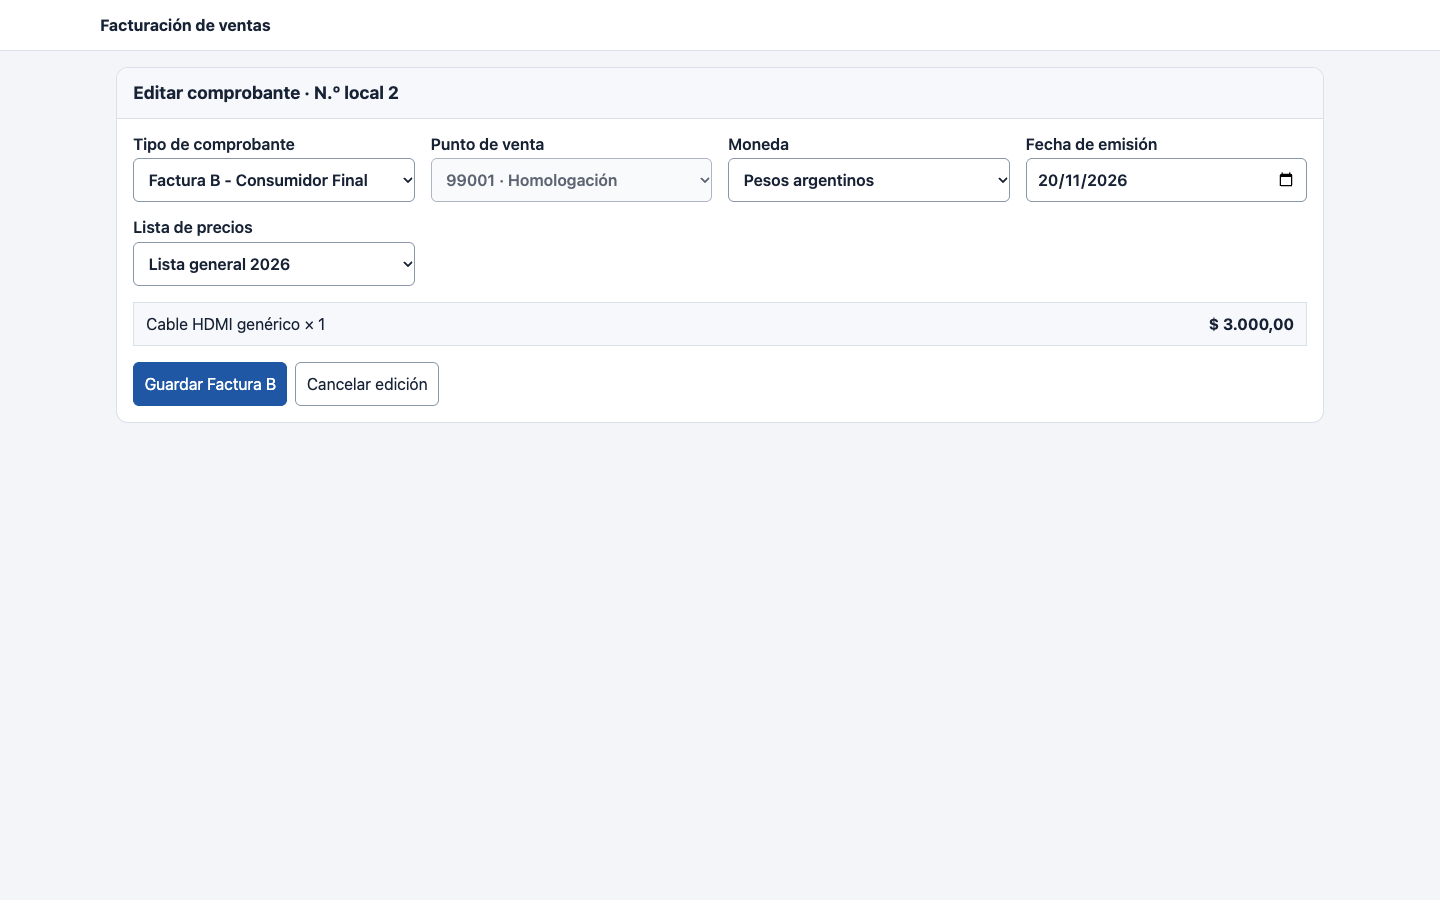
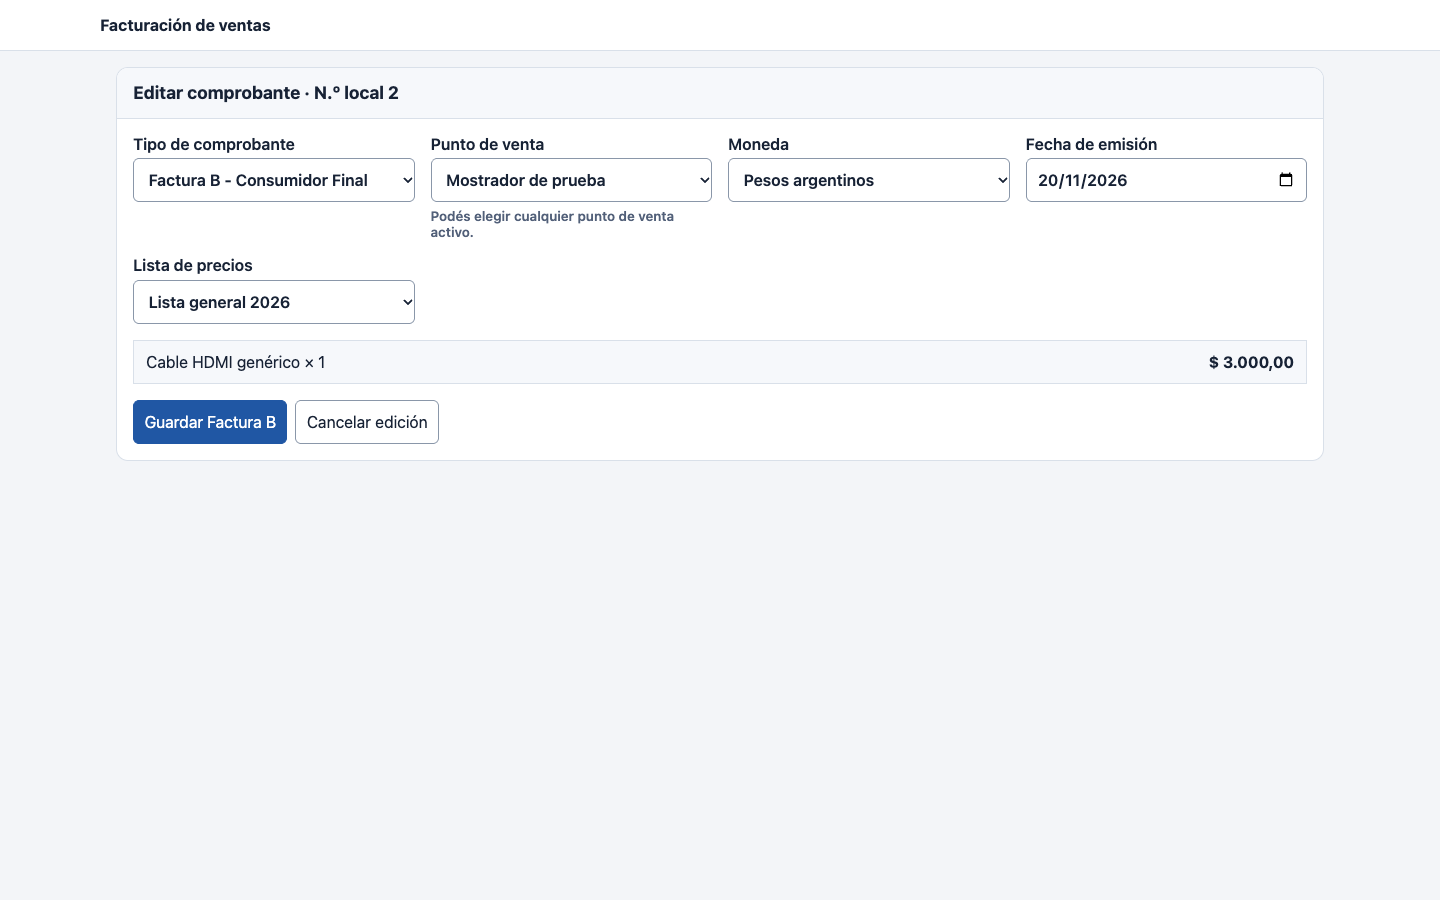
Permitir cambiar el punto de venta al convertir comprobantes

Changed region(s): [[0.0938, 0.2489, 0.3125, 0.4978], [0.2812, 0.1867, 0.4688, 0.28], [0.8125, 0.3422, 0.9062, 0.4356]]

diff --git a/frontend/src/app.ts b/frontend/src/app.ts
@@ -103,7 +103,7 @@ const catalogosEstado = elemento<HTMLParagraphElement>('catalogos-estado');
 const btnReintentarCatalogos = elemento<HTMLButtonElement>('btn-reintentar-catalogos');
 const altaTipo = elemento<HTMLSelectElement>('alta-tipo');
 const altaLista = elemento<HTMLSelectElement>('alta-lista-precio');
-const ayudaPuntoFiscal = elemento<HTMLElement>('alta-ayuda-punto-fiscal');
+const ayudaPuntoVenta = elemento<HTMLElement>('alta-ayuda-punto-venta');
 const panelAlta = elemento<HTMLDetailsElement>('panel-alta');
 const tituloFormulario = elemento<HTMLSpanElement>('titulo-formulario');
 const altaRechazo = elemento<HTMLDivElement>('alta-rechazo');
@@ -460,22 +460,27 @@ function sincronizarTipo(): void {
         elemento(id).hidden = esInterno();
     }
     btnCrear.textContent = esInterno() ? 'Guardar Factura B' : 'Guardar Factura C';
-    ayudaPuntoFiscal.hidden = true;
+    ayudaPuntoVenta.hidden = true;
     if (!edicion) return;
 
-    const convirtiendo = edicion.tipoOriginal === 'CONSUMIDOR_FINAL' && !esInterno();
-    const puntosFiscales = edicion.puntosVentaHomologacion;
-    const permiteElegirPunto = convirtiendo && puntosFiscales.length > 0;
+    const aFacturaC = edicion.tipoOriginal === 'CONSUMIDOR_FINAL' && !esInterno();
+    const aFacturaB = edicion.tipoOriginal === 'FACTURA_C' && esInterno();
+    const convirtiendo = aFacturaC || aFacturaB;
+    const opciones = aFacturaC ? edicion.puntosVentaHomologacion : puntosVentaCatalogo;
     const puntoElegido = idSeleccionado(altaPuntoVenta) ?? edicion.puntoOriginal;
-    llenarSelect(altaPuntoVenta, permiteElegirPunto ? puntosFiscales : puntosVentaCatalogo, 'Seleccione…');
-    altaPuntoVenta.value = permiteElegirPunto
-        ? (puntosFiscales.some(punto => punto.id === puntoElegido) ? String(puntoElegido) : '')
+    llenarSelect(altaPuntoVenta, opciones, 'Seleccione…');
+    altaPuntoVenta.value = convirtiendo
+        ? (opciones.some(punto => punto.id === puntoElegido) ? String(puntoElegido) : '')
         : String(edicion.puntoOriginal);
-    altaPuntoVenta.disabled = !permiteElegirPunto;
-    ayudaPuntoFiscal.hidden = !convirtiendo;
-    ayudaPuntoFiscal.textContent = permiteElegirPunto
-        ? 'Seleccioná un punto habilitado para homologación.'
-        : 'Configurá un punto habilitado para poder homologar.';
+    altaPuntoVenta.disabled = !convirtiendo || opciones.length === 0;
+    ayudaPuntoVenta.hidden = !convirtiendo;
+    if (aFacturaB) {
+        ayudaPuntoVenta.textContent = 'Podés elegir cualquier punto de venta activo.';
+    } else if (aFacturaC) {
+        ayudaPuntoVenta.textContent = opciones.length > 0
+            ? 'Seleccioná un punto habilitado para homologación.'
+            : 'Configurá un punto habilitado para poder homologar.';
+    }
 }
 
 async function recotizarItems(): Promise<void> {

diff --git a/docs/diseno/mockup-edicion-tipo/index.html b/docs/diseno/mockup-edicion-tipo/index.html
@@ -53,7 +53,7 @@
             <option value="local">Mostrador de prueba</option>
             <option value="fiscal">99001 · Homologación</option>
           </select>
-          <small data-fiscal>Seleccioná un punto habilitado para homologación.</small>
+          <small id="ayuda-punto">Seleccioná el punto de venta del comprobante.</small>
         </label>
         <div data-fiscal>
           <label for="cliente">Cliente (obligatorio)</label>
@@ -104,9 +104,12 @@ let solicitudRegistrada = false;
 function actualizar() {
   const fiscal = tipo.value === 'C';
   document.querySelectorAll('[data-fiscal]').forEach(el => el.hidden = !fiscal);
-  punto.disabled = !(tipoInicial === 'B' && fiscal);
+  punto.disabled = tipoInicial === tipo.value || solicitudRegistrada;
   punto.value = fiscal || tipoInicial === 'C' ? 'fiscal' : 'local';
-  document.querySelector('small').hidden = punto.disabled;
+  const ayudaPunto = document.getElementById('ayuda-punto');
+  ayudaPunto.hidden = punto.disabled;
+  ayudaPunto.textContent = fiscal ? 'Seleccioná un punto habilitado para homologación.'
+    : 'Podés elegir cualquier punto de venta activo.';
   tipo.disabled = solicitudRegistrada;
   guardar.textContent = fiscal ? 'Guardar Factura C' : 'Guardar Factura B';
 }
@@ -141,6 +144,7 @@ document.getElementById('editar').addEventListener('click', () => {
   actualizar();
 });
 actualizar();
+if (vista === 'C') punto.value = 'local';
 if (vista === 'guardada') abrirComprobantes();
 </script>
 </body>

diff --git a/frontend/public/index.html b/frontend/public/index.html
@@ -98,8 +98,8 @@
                     </div>
                     <div class="col-md-6 col-lg-3">
                         <label for="alta-punto-venta" class="form-label">Punto de venta</label>
-                        <select id="alta-punto-venta" class="form-select" aria-describedby="alta-ayuda-punto-fiscal" required></select>
-                        <small id="alta-ayuda-punto-fiscal" class="form-text" hidden></small>
+                        <select id="alta-punto-venta" class="form-select" aria-describedby="alta-ayuda-punto-venta" required></select>
+                        <small id="alta-ayuda-punto-venta" class="form-text" hidden></small>
                     </div>
                     <div class="col-md-6 col-lg-3" id="alta-campo-cliente">
                         <label for="alta-cliente" class="form-label">Cliente (obligatorio)</label>

diff --git a/src/main/java/com/tp/facturacion/service/FacturaService.java b/src/main/java/com/tp/facturacion/service/FacturaService.java
@@ -358,9 +358,8 @@ public class FacturaService {
                     && intentosArca.existsByFacturaId(id)) {
                 throw new ReglaNegocioException("El tipo no puede cambiarse después de solicitar una autorización fiscal");
             }
-            if (factura.getTipoComprobante() == TipoComprobante.CONSUMIDOR_FINAL
-                    && request.getTipoComprobante() == TipoComprobante.FACTURA_C) {
-                asignarPuntoAlConvertir(factura, request.getPuntoVentaId());
+            if (factura.getTipoComprobante() != null && factura.getTipoComprobante() != request.getTipoComprobante()) {
+                asignarPuntoAlConvertir(factura, request.getPuntoVentaId(), request.getTipoComprobante());
             }
             factura.setTipoComprobante(request.getTipoComprobante());
             asignarReceptor(factura, request);
@@ -435,18 +434,22 @@ public class FacturaService {
 
     // ======================= AUXILIARES =======================
 
-    private void asignarPuntoAlConvertir(FacturaVenta factura, Long puntoSolicitado) {
-        Long puntoActual = factura.getPuntoVenta().getId();
-        Long puntoDestino = puntoSolicitado == null ? puntoActual : puntoSolicitado;
-        if (puntosVentaHomologacion().stream().noneMatch(punto -> punto.getId().equals(puntoDestino))) {
+    private void asignarPuntoAlConvertir(FacturaVenta factura, Long puntoSolicitado, TipoComprobante tipoDestino) {
+        PuntoVenta puntoActual = factura.getPuntoVenta();
+        Long puntoDestino = puntoSolicitado == null ? puntoActual.getId() : puntoSolicitado;
+        if (tipoDestino == TipoComprobante.FACTURA_C
+                && puntosVentaHomologacion().stream().noneMatch(punto -> punto.getId().equals(puntoDestino))) {
             throw new ReglaNegocioException("Seleccione un punto de venta habilitado para homologación");
         }
-        if (!puntoDestino.equals(puntoActual)) {
-            var punto = puntoVentaRepository.buscarBloqueado(puntoDestino)
-                    .orElseThrow(() -> new RecursoNoEncontradoException("No existe el punto de venta seleccionado"));
-            if (punto.getFechaBaja() != null) {
-                throw new ReglaNegocioException("El punto de venta seleccionado está dado de baja");
-            }
+
+        boolean cambiaPunto = !puntoDestino.equals(puntoActual.getId());
+        PuntoVenta punto = cambiaPunto ? puntoVentaRepository.buscarBloqueado(puntoDestino)
+                .orElseThrow(() -> new RecursoNoEncontradoException("No existe el punto de venta seleccionado"))
+                : puntoActual;
+        if (punto.getFechaBaja() != null) {
+            throw new ReglaNegocioException("El punto de venta seleccionado está dado de baja");
+        }
+        if (cambiaPunto) {
             factura.setNumero(facturaVentaRepository.ultimoNumeroPorPuntoVenta(puntoDestino) + 1);
             factura.setPuntoVenta(punto);
         }

diff --git a/src/test/java/com/tp/facturacion/controller/FacturaCrudConsignasTests.java b/src/test/java/com/tp/facturacion/controller/FacturaCrudConsignasTests.java
@@ -155,10 +155,26 @@ class FacturaCrudConsignasTests {
                 .andExpect(jsonPath("$.estado").value("PENDIENTE"));
         assertEquals(2L, jdbc.queryForObject("SELECT punto_venta_id FROM factura_venta WHERE id=100", Long.class));
 
+        mvc.perform(post("/api/facturas").contentType(MediaType.APPLICATION_JSON)
+                .content(alta("[{\"articuloId\":1,\"cantidad\":1}]")))
+                .andExpect(status().isCreated()).andExpect(jsonPath("$.numeroFactura").value(1));
+
         long revision = jdbc.queryForObject("SELECT revision FROM factura_venta WHERE id=100", Long.class);
         mvc.perform(put("/api/facturas/100").contentType(MediaType.APPLICATION_JSON)
-                .content(edicion("CONSUMIDOR_FINAL", 2, revision, "")))
-                .andExpect(status().isOk()).andExpect(jsonPath("$.tipoComprobante").value("CONSUMIDOR_FINAL"));
+                .content(edicion("FACTURA_C", 1, revision, ",\"clienteId\":2,\"condicionIvaId\":1")))
+                .andExpect(status().isConflict());
+
+        jdbc.update("UPDATE punto_venta SET fechaBaja = CURRENT_TIMESTAMP WHERE id = 1");
+        mvc.perform(put("/api/facturas/100").contentType(MediaType.APPLICATION_JSON)
+                .content(edicion("CONSUMIDOR_FINAL", 1, revision, "")))
+                .andExpect(status().isConflict());
+        jdbc.update("UPDATE punto_venta SET fechaBaja = NULL WHERE id = 1");
+
+        mvc.perform(put("/api/facturas/100").contentType(MediaType.APPLICATION_JSON)
+                .content(edicion("CONSUMIDOR_FINAL", 1, revision, "")))
+                .andExpect(status().isOk()).andExpect(jsonPath("$.tipoComprobante").value("CONSUMIDOR_FINAL"))
+                .andExpect(jsonPath("$.id").value(100)).andExpect(jsonPath("$.numeroFactura").value(2));
+        assertEquals(1L, jdbc.queryForObject("SELECT punto_venta_id FROM factura_venta WHERE id=100", Long.class));
         assertNull(jdbc.queryForObject("SELECT cliente_id FROM factura_venta WHERE id=100", Long.class));
         assertEquals(0, jdbc.queryForObject("SELECT COUNT(*) FROM arca_intento", Integer.class));
     }

diff --git a/docs/diseno/mockup-edicion-tipo/README.md b/docs/diseno/mockup-edicion-tipo/README.md
@@ -1,13 +1,15 @@
 # Edición de comprobantes y autorización manual
 
 Sistema visual: [revisión 1](../../../design-system/README.md).
-Approval: approved (2026-11-20, by user) · revisión 2
+Approval: approved (2026-11-20, by user) · revisión 3
+
+La revisión 2 fue aprobada el 20/11/2026.
 
 [Abrir el formulario interactivo](index.html). Los datos y la respuesta de ARCA de la vista son ficticios.
 
 - Una Factura C nueva o editada se guarda localmente. En Comprobantes, el usuario confirma el CUIT y pulsa **Informar a ARCA** para solicitar el CAE.
 - Factura B interna a Factura C: el formulario pide cliente y condición de IVA. Si hace falta otro punto para homologar, permite elegir uno habilitado. Se conserva el registro y, si se cambia el punto, se asigna un número local en el destino.
-- Factura C a Factura B interna: se permite antes del primer intento fiscal registrado. El formulario oculta los campos del receptor y guarda el comprobante sin cliente.
+- Factura C a Factura B interna: se permite antes del primer intento fiscal registrado. Durante la conversión se puede elegir cualquier punto de venta activo. Si cambia el punto se asigna un número local en el destino. El formulario oculta los datos del receptor.
 - Una Factura C rechazada sigue editable para corregir el cliente u otros datos, con el tipo C. El reintento también se inicia desde Comprobantes. Las autorizadas y las que tienen un trámite activo o incierto siguen bloqueadas.
 
 - B a C: [escritorio](previews/B-a-C-escritorio.png) y [móvil](previews/B-a-C-movil.png).
@@ -16,6 +18,10 @@ Approval: approved (2026-11-20, by user) · revisión 2
 
 Preview: rendered (2026-11-20), 1440 × 900 y 390 × 844.
 
-Visual verify: passed (2026-11-20), Chrome local a 390 × 844 y 1440 × 900. Se comprobó la conversión B a C, la selección de cliente y punto, el tipo bloqueado de una C rechazada y la confirmación manual desde Comprobantes. El formulario real conserva el campo Observaciones y la tabla editable de ítems. La comprobación visual no escribió datos ni solicitó CAE.
+Visual verify (revisión 2): passed (2026-11-20), Chrome local a 390 × 844 y 1440 × 900. Se comprobó la conversión B a C, la selección de cliente y punto, el tipo bloqueado de una C rechazada y la confirmación manual desde Comprobantes. El formulario real conserva el campo Observaciones y la tabla editable de ítems. La comprobación visual no escribió datos ni solicitó CAE.
 
 - Formulario aplicado: [escritorio](verify/B-a-C-escritorio.png) y [móvil](verify/B-a-C-movil.png).
+
+Visual verify (revisión 3): passed (2026-11-20), Chrome local a 390 × 844 y 1440 × 900. Se comprobó el selector de puntos activos al pasar de C a B, el selector de puntos habilitados al pasar de B a C y la restauración del punto original al volver al tipo inicial. Se verificó el guardado y la numeración del destino con pruebas de integración. La comprobación visual se canceló sin guardar los comprobantes locales.
+
+- Conversión de C a B aplicada: [escritorio](verify/C-a-B-escritorio.png) y [móvil](verify/C-a-B-movil.png).

diff --git a/README.md b/README.md
@@ -26,7 +26,7 @@ para el punto de venta exclusivo configurado.
 ## Alta, edición e impresión
 
 - **Factura C** exige un cliente del padrón. Una vez guardada, marcar la confirmación del CUIT y pulsar **Informar a ARCA** desde Comprobantes. Un rechazo conserva la factura editable y el motivo. Si el resultado es incierto, usar **Consultar ARCA**.
-- **Factura B - Consumidor Final** genera un comprobante interno sin cliente ni CAE. Se puede convertir a Factura C y elegir un punto de homologación. La conversión de C a B está disponible antes del primer intento fiscal registrado. En las ediciones se recalculan los ítems a precio vigente.
+- **Factura B - Consumidor Final** genera un comprobante interno sin cliente ni CAE. Se puede convertir a Factura C y elegir un punto de homologación. La conversión de C a B está disponible antes del primer intento fiscal registrado y permite elegir un punto activo. En las ediciones se recalculan los ítems a precio vigente.
 - La lista **General** se selecciona inicialmente. Si falta un precio en la lista elegida, se muestra el de General con su origen. Las listas de demostración se cargan con [precios_mayorista.sql](db/demo/precios_mayorista.sql) y luego [precios_costo.sql](db/demo/precios_costo.sql).
 - **Comprobantes registrados** ordena por fecha de emisión descendente. El selector, el desempate por ID y el orden se aplican también a PDF y Excel. **Ver comprobante** abre el PDF individual en todas las filas. Cuando la autorización no está confirmada, el PDF se identifica como copia sin validez fiscal. **Estado de ARCA** muestra el último estado registrado de cada comprobante.
 
